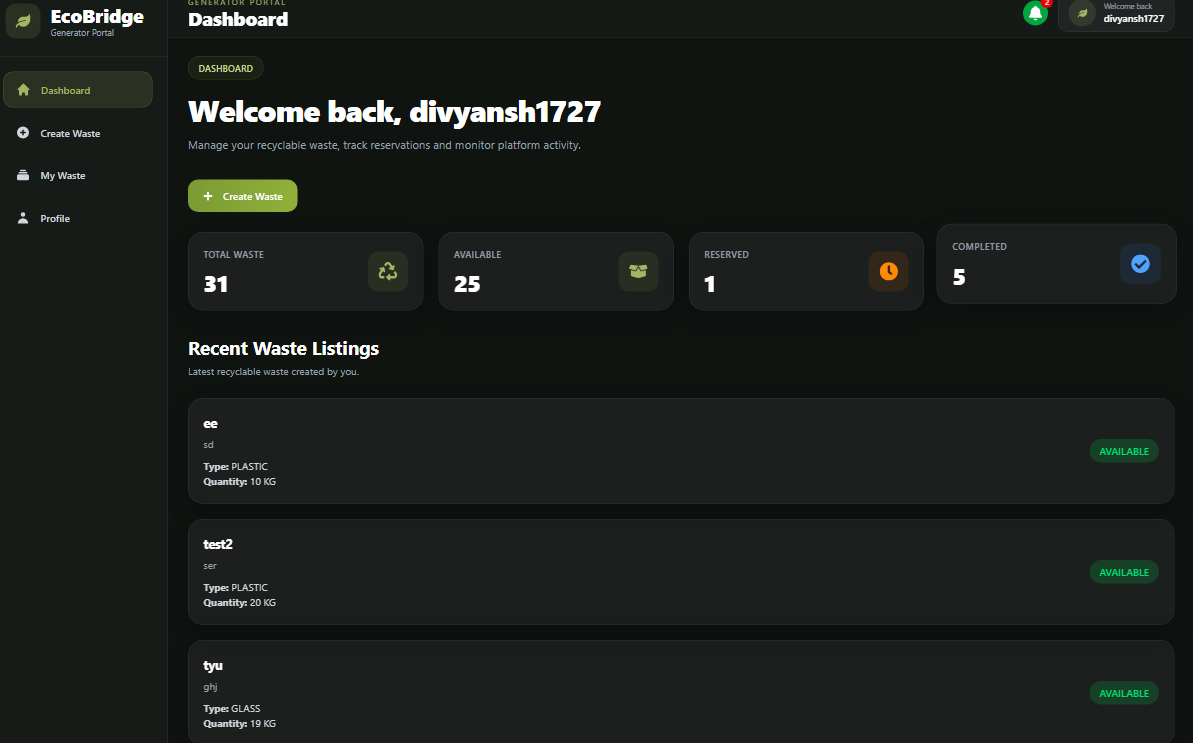
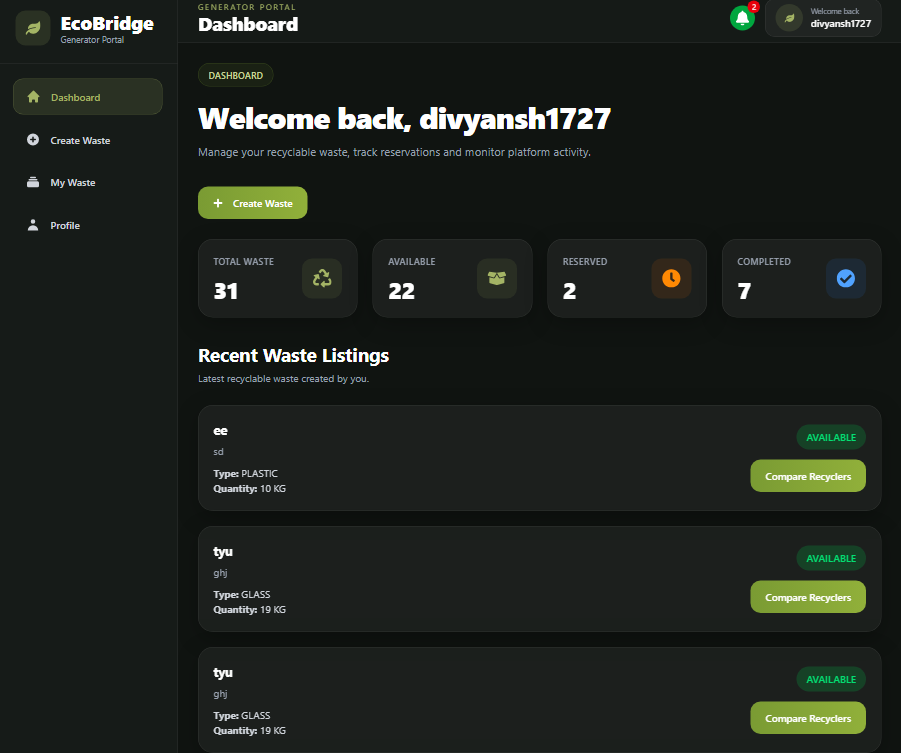
ScreenShots Fix

diff --git a/README.md b/README.md
@@ -88,6 +88,7 @@ EcoBridge helps users manage the complete recycling workflow:
 |---|---|
 | 🌐 Frontend | https://ebe-mauve.vercel.app |
 | 🚪 API Gateway | https://ecobridge-enterprise-0.onrender.com |
+| 📊 Discovery Server | https://ecobridge-enterprise-1.onrender.com |
 | 🔐 Auth Service | https://ecobridge-enterprise-2.onrender.com |
 | ♻ Waste Service | https://ecobridge-enterprise-3.onrender.com |
 | 🏭 Recycler Service | https://ecobridge-enterprise-4.onrender.com |
@@ -744,8 +745,8 @@ Nearby locations are then displayed on the Google Map.
                  Recycler Details
 ```
 
-![EcoBridge Interactive Recycler Map](frontend/nearby-recycler-map.png)
-![EcoBridge Interactive Recycler Map](frontend/nearby-recycler-map-website.png)
+![EcoBridge Interactive Recycler Map](docs/frontend/nearby-recycler-map.png)
+![EcoBridge Interactive Recycler Map](docs/frontend/nearby-recycler-map-website.png)
 
 ---
 
